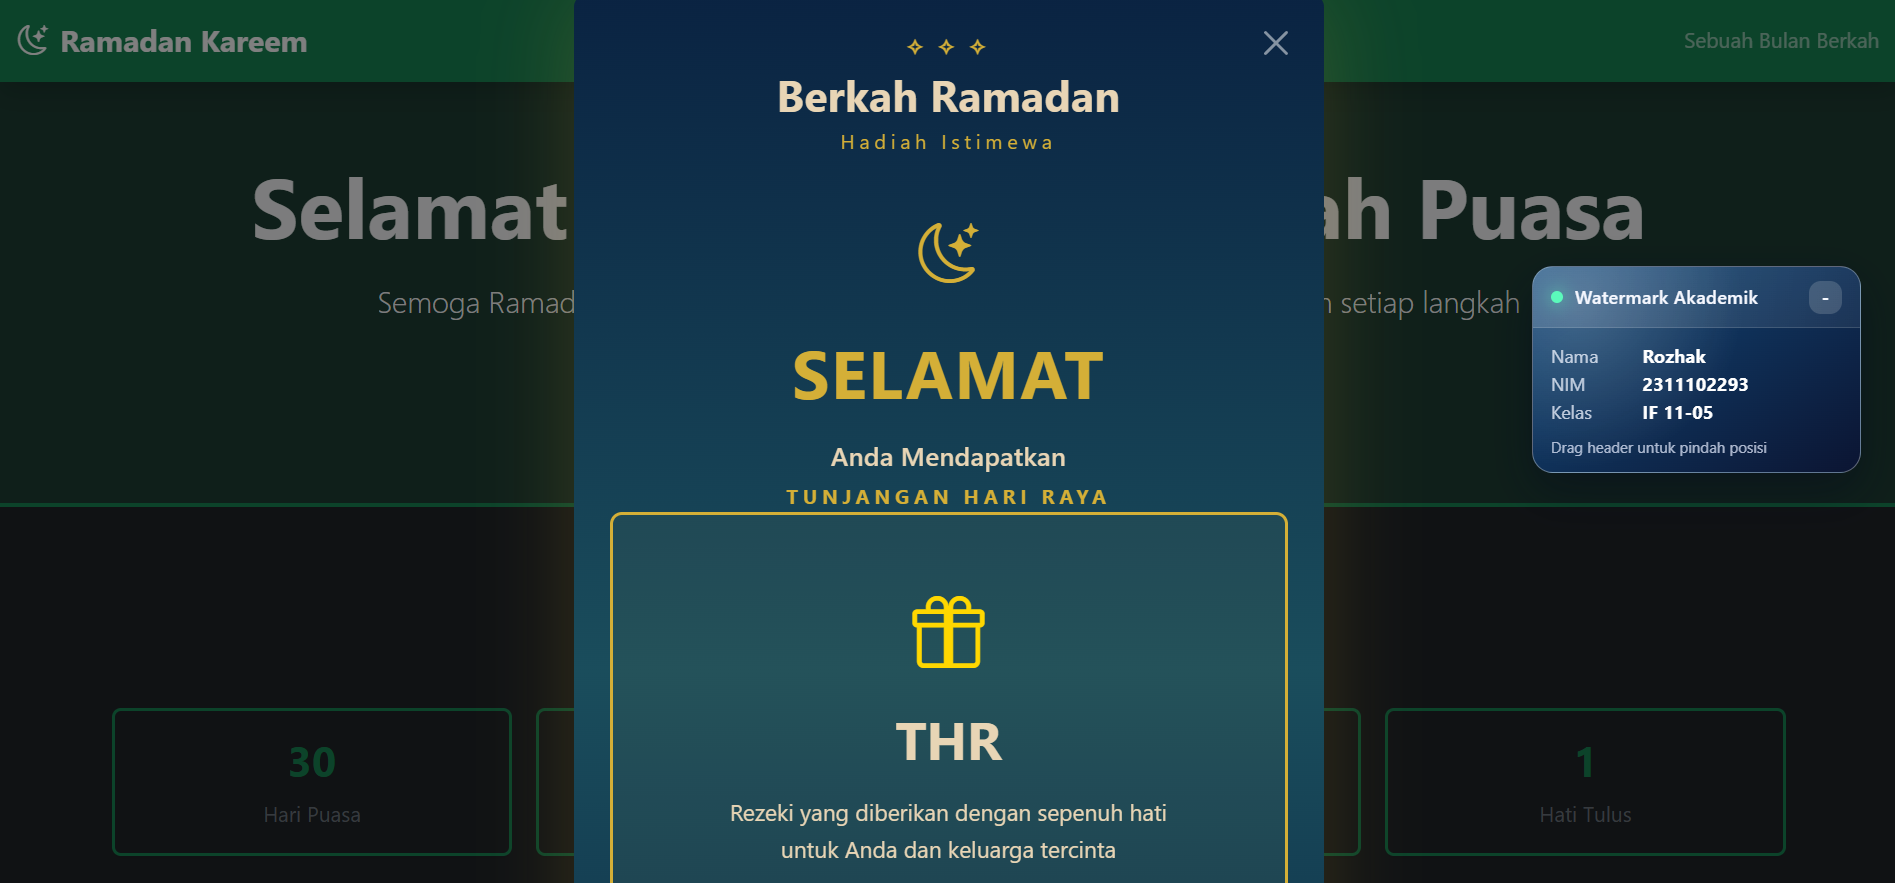
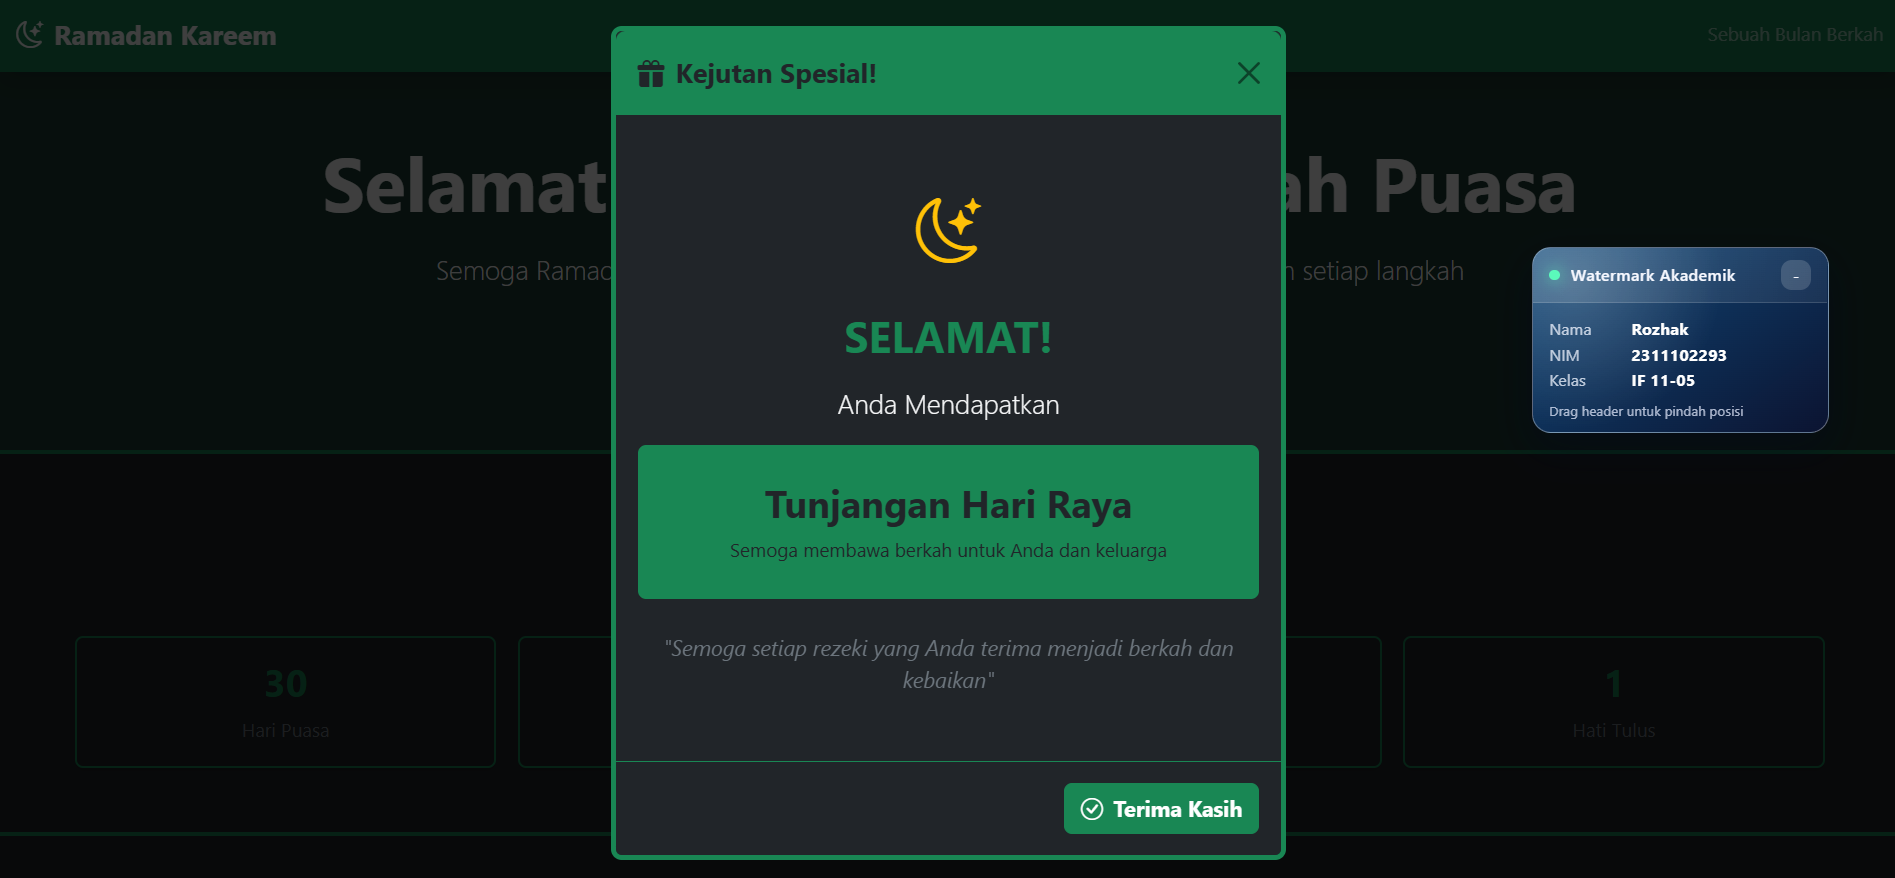
refactor: remove custom css and js for pure bootstrap

diff --git a/2311102293_Rozhak/index.html b/2311102293_Rozhak/index.html
@@ -13,9 +13,6 @@
     
     <!-- Bootstrap Icons CDN -->
     <link rel="stylesheet" href="https://cdn.jsdelivr.net/npm/bootstrap-icons@1.11.0/font/bootstrap-icons.css">
-    
-    <!-- Custom Animations CSS -->
-    <link rel="stylesheet" href="assets/css/animations.css">
 </head>
 <body class="bg-dark text-light">
 
@@ -38,7 +35,7 @@
                 <a href="#doa" class="btn btn-outline-light btn-lg fw-semibold">
                     <i class="bi bi-heart-fill me-2"></i>Baca Doa
                 </a>
-                <button class="btn btn-warning btn-lg fw-semibold" id="thrButton">
+                <button class="btn btn-warning btn-lg fw-semibold" data-bs-toggle="modal" data-bs-target="#thrModal">
                     <i class="bi bi-gift-fill me-2"></i>Buka Surprise
                 </button>
             </div>
@@ -245,69 +242,51 @@
     <!-- Bootstrap JS -->
     <script src="https://cdn.jsdelivr.net/npm/bootstrap@5.3.0/dist/js/bootstrap.bundle.min.js"></script>
 
-    <!-- THR Modal Script -->
-    <script src="assets/js/thr.js"></script>
+    <!-- Bootstrap JS -->
+    <script src="https://cdn.jsdelivr.net/npm/bootstrap@5.3.0/dist/js/bootstrap.bundle.min.js"></script>
 
     <!-- THR Modal -->
     <div class="modal fade" id="thrModal" tabindex="-1">
         <div class="modal-dialog modal-dialog-centered">
-            <div class="modal-content">
+            <div class="modal-content bg-dark border-success border-4">
                 
                 <!-- Header -->
-                <div class="modal-header pt-4 pb-0">
-                    <div class="w-100">
-                        <!-- Islamic Decorative Top -->
-                        <p class="text-warning fw-bold mb-2 decoration-text">✧ ✧ ✧</p>
-                        <h5 class="modal-title fw-bolder text-light">
-                            Berkah Ramadan
-                        </h5>
-                        <p class="text-warning small mb-0 decoration-text">Hadiah Istimewa</p>
-                    </div>
-                    <button type="button" class="btn-close btn-close-white position-absolute top-0 end-0 m-3" data-bs-dismiss="modal"></button>
+                <div class="modal-header bg-success border-success border-bottom-3">
+                    <h5 class="modal-title fw-bolder text-dark">
+                        <i class="bi bi-gift-fill me-2"></i>Kejutan Spesial!
+                    </h5>
+                    <button type="button" class="btn-close" data-bs-dismiss="modal"></button>
                 </div>
                 
                 <!-- Body -->
-                <div class="modal-body">
-                    <!-- Crescent & Star -->
+                <div class="modal-body text-center py-5">
+                    <!-- Icon -->
                     <div class="mb-4">
-                        <i class="bi bi-moon-stars text-warning" style="font-size: 2.5rem;"></i>
+                        <i class="bi bi-moon-stars text-warning" style="font-size: 3rem;"></i>
                     </div>
                     
-                    <!-- Main Blessing -->
-                    <h2 class="fw-bolder mb-3 text-warning">SELAMAT</h2>
+                    <!-- Main Message -->
+                    <h2 class="fw-bolder text-success mb-3" style="font-size: 2rem;">SELAMAT!</h2>
                     
                     <!-- Subtitle -->
-                    <p class="text-light mb-1 fw-semibold" style="font-size: 1.1rem;">Anda Mendapatkan</p>
-                    <p class="text-warning fw-bold mb-5 decoration-text">TUNJANGAN HARI RAYA</p>
+                    <p class="lead text-light mb-3">Anda Mendapatkan</p>
                     
-                    <!-- THR Gift Card -->
-                    <div class="gift-card">
-                        <!-- Gift Icon -->
-                        <i class="bi bi-gift" id="giftIcon"></i>
-                        
-                        <!-- Text -->
-                        <h3 class="text-light">THR</h3>
-                        <p class="text-light">
-                            Rezeki yang diberikan dengan sepenuh hati<br>untuk Anda dan keluarga tercinta
-                        </p>
+                    <!-- THR Card -->
+                    <div class="card bg-success border-success border-2 mb-4 p-4">
+                        <h3 class="fw-bolder text-dark mb-2">Tunjangan Hari Raya</h3>
+                        <p class="text-dark small mb-0">Semoga membawa berkah untuk Anda dan keluarga</p>
                     </div>
                     
-                    <!-- Doa/Blessing -->
-                    <div class="doa-section">
-                        <p class="text-warning small fw-semibold mb-3 decoration-text">Allahumma Barik</p>
-                        <p class="text-light doa-text">
-                            "Semoga setiap rezeki yang Anda terima menjadi berkah dan kebaikan untuk diri, keluarga, dan sesamamu"
-                        </p>
-                    </div>
-                    
-                    <!-- Bottom -->
-                    <p class="text-warning fw-bold decoration-text">✧ ✧ ✧</p>
+                    <!-- Doa -->
+                    <p class="text-secondary fst-italic mb-0">
+                        "Semoga setiap rezeki yang Anda terima menjadi berkah dan kebaikan"
+                    </p>
                 </div>
                 
                 <!-- Footer -->
-                <div class="modal-footer pb-4">
-                    <button type="button" class="btn" data-bs-dismiss="modal">
-                        Terima Kasih
+                <div class="modal-footer bg-dark border-success border-top-3">
+                    <button type="button" class="btn btn-success fw-bold" data-bs-dismiss="modal">
+                        <i class="bi bi-check-circle me-2"></i>Terima Kasih
                     </button>
                 </div>
             </div>

diff --git a/2311102293_Rozhak/README.md b/2311102293_Rozhak/README.md
@@ -51,44 +51,46 @@ Dalam penggunaannya, Bootstrap biasanya diintegrasikan melalui **CDN (Content De
     <!-- THR Modal -->
     <div class="modal fade" id="thrModal" tabindex="-1">
         <div class="modal-dialog modal-dialog-centered">
-            <div class="modal-content">
+            <div class="modal-content bg-dark border-success border-4">
                 
                 <!-- Header -->
-                <div class="modal-header pt-4 pb-0">
-                    ...
+                <div class="modal-header bg-success border-success border-bottom-3">
+                    <h5 class="modal-title fw-bolder text-dark">
+                        <i class="bi bi-gift-fill me-2"></i>Kejutan Spesial!
+                    </h5>
+                    <button type="button" class="btn-close" data-bs-dismiss="modal"></button>
                 </div>
                 
                 <!-- Body -->
-                <div class="modal-body">
-                    <!-- Crescent & Star -->
+                <div class="modal-body text-center py-5">
+                    <!-- Icon -->
                     <div class="mb-4">
-                        <i class="bi bi-moon-stars text-warning" style="font-size: 2.5rem;"></i>
+                        <i class="bi bi-moon-stars text-warning" style="font-size: 3rem;"></i>
                     </div>
                     
-                    <!-- Main Blessing -->
-                    <h2 class="fw-bolder mb-3 text-warning">SELAMAT</h2>
+                    <!-- Main Message -->
+                    <h2 class="fw-bolder text-success mb-3" style="font-size: 2rem;">SELAMAT!</h2>
                     
                     <!-- Subtitle -->
-                    <p class="text-light mb-1 fw-semibold" style="font-size: 1.1rem;">Anda Mendapatkan</p>
-                    <p class="text-warning fw-bold mb-5 decoration-text">TUNJANGAN HARI RAYA</p>
+                    <p class="lead text-light mb-3">Anda Mendapatkan</p>
                     
-                    <!-- THR Gift Card -->
-                    <div class="gift-card">
-                        ...
+                    <!-- THR Card -->
+                    <div class="card bg-success border-success border-2 mb-4 p-4">
+                        <h3 class="fw-bolder text-dark mb-2">Tunjangan Hari Raya</h3>
+                        <p class="text-dark small mb-0">Semoga membawa berkah untuk Anda dan keluarga</p>
                     </div>
                     
-                    <!-- Doa/Blessing -->
-                    <div class="doa-section">
-                        ...
-                    </div>
-                    
-                    <!-- Bottom -->
-                    <p class="text-warning fw-bold decoration-text">✧ ✧ ✧</p>
+                    <!-- Doa -->
+                    <p class="text-secondary fst-italic mb-0">
+                        "Semoga setiap rezeki yang Anda terima menjadi berkah dan kebaikan"
+                    </p>
                 </div>
                 
                 <!-- Footer -->
-                <div class="modal-footer pb-4">
-                    ...
+                <div class="modal-footer bg-dark border-success border-top-3">
+                    <button type="button" class="btn btn-success fw-bold" data-bs-dismiss="modal">
+                        <i class="bi bi-check-circle me-2"></i>Terima Kasih
+                    </button>
                 </div>
             </div>
         </div>
@@ -100,15 +102,11 @@ Dalam penggunaannya, Bootstrap biasanya diintegrasikan melalui **CDN (Content De
 
 ### 2. Penjelasan
 
-Kode JavaScript pada fitur ini menggunakan pendekatan **Object-Oriented Programming (OOP)** melalui class `THRController` untuk mengelola interaksi tombol THR dan modal secara terstruktur. Pada construktor, dilakukan inisialisasi elemen DOM seperti tombol (`thrButton`), modal (`thrModal`), dan ikon hadiah (`gidtIcon`) yang akan digunakan dalam proses interaksi.
+Fitur THR pada halaman ini dibuat dengan memanfaatkan komponen **Modal** dari Bootstrap. Tombol **Buka Surprise** sudah diatur menggunakan atribut `data-bs-toggle="modal"` dan `data-bs-target="#thrModal"`, sehingga ketika tombol tersebut diklik, modal akan muncul secara otomatis tanpa memerlukan JavaScript tambahan. Cara ini membuat interaksi menjadi lebih sederhana, langsung, dan tetap sesuai dengan kebutuhan tugas.
 
-Modal diinisialisasi menggunakan `new bootstrap.Model()` yang menggunakan API bawaan Bootstrap untuk mengontrol modal melalui JavaScript tanpa perlu atribut HTML tambahan. Hal ini memberikan fleksibilitas lebih dalam mengatur perilaku modal secara dinamis.
+Modal yang digunakan juga disusun agar tetap selaras dengan tema Ramadan yang diterapkan pada halaman utama. Bagian `modal-dialog-centered` digunakan supaya posisi modal tampil di tengah layar, sedangkan `modal-content bg-dark border-success border-4` memberi kesan gelap namun tetap serasi dengan warna hijau sebagai aksen utama. Pada bagian header, terdapat judul kejutan dengan ikon hadiah, lalu pada bagian body ditampilkan pesan utama, yaitu **"Selamat, Anda mendapatkan THR!"**, beserta informasi pendukung yang memperkuat isi modal.
 
-Event handling diterapkan pada method `init()` dengan menambahkan event listiner `click` pada tombol THR. Ketika tombol di klik, method `handleClick()` akan dijalankan untuk memberikan efek animasi skala (scale) sebagai feedback visual, kemudian menampilkan modal menggunakan method `.show()` dari Bootstrap.
-
-Selain itu, terdapat method `animateGiftIcon()` yang berfungsi untuk memicu animasi pada ikon hadian dengan cara mereset dan mengaktifkan kembali properti CSS animation. Teknik ini digunakan agar animasi dapat diputar ulang setiap kali modal ditampilkan.
-
-Terakhir, penggunaan `DomContentLoaded` memastikan bahwa seluruh elemen HTML telah dimuat sebelum inisialisasi class dijalankan, sehingga menghindari error akibat elemen yang belum tersedia di DOM.
+Selain itu, bagian footer pada modal menyediakan tombol **Terima Kasih** yang menggunakan atribut `data-bs-dismiss="modal"` untuk menutup modal secara langsung. Dengan susunan tersebut, fitur THR tidak hanya berfungsi sebagai kejutan, tetapi juga tetap memberikan pengalaman pengguna yang rapi, jelas, dan nyaman saat dijalankan.
 
 ### 3. Output
 
@@ -116,4 +114,4 @@ Terakhir, penggunaan `DomContentLoaded` memastikan bahwa seluruh elemen HTML tel
 
 ## Kesimpulan
 
-JavaScript memungkinkan pembuatan fitur interaktif yang terstruktur dan dinamis melalui pengelolaan event, manipulasi DOM, serta integrasi dan komponen Bootstrap seperti modal.
+Bootstrap memudahkan pembuatan halaman yang responsif dan interaktif melalui komponen siap pakai seperti navbar, card, button, dan modal, sehingga fitur THR dapat ditampilkan dengan cepat, rapi, dan sesuai tema Ramadan.
